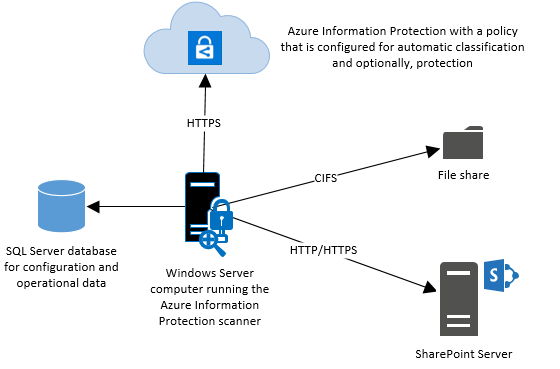
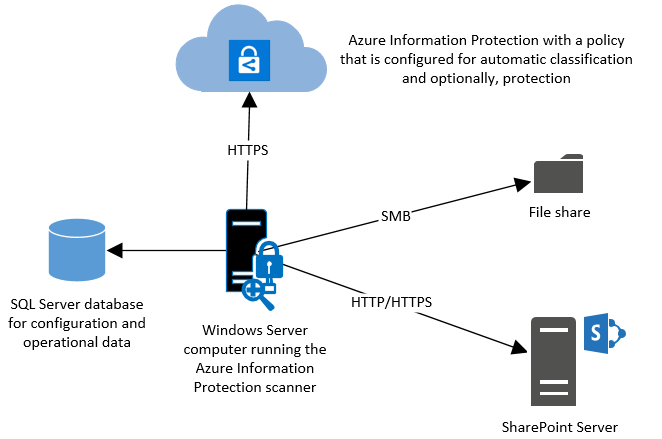
replace CIFS reference in text and art to SMB

Changed region(s): [[0.0, 0.0, 0.9714, 0.8943], [0.6982, 0.6856, 0.9714, 0.9837]]

diff --git a/Azure-RMSDocs/deploy-use/deploy-aip-scanner.md b/Azure-RMSDocs/deploy-use/deploy-aip-scanner.md
@@ -6,7 +6,7 @@ description: Instructions to install, configure, and run the Azure Information P
 author: cabailey
 ms.author: cabailey
 manager: mbaldwin
-ms.date: 03/09/2018
+ms.date: 04/09/2018
 ms.topic: article
 ms.prod:
 ms.service: information-protection
@@ -35,7 +35,7 @@ This scanner runs as a service on Windows Server and lets you discover, classify
 
 - Local folders on the Windows Server computer that runs the scanner.
 
-- UNC paths for network shares that use the Common Internet File System (CIFS) protocol.
+- UNC paths for network shares that use the Server Message Block (SMB) protocol.
 
 - Sites and libraries for SharePoint Server 2016 and SharePoint Server 2013.
 
@@ -43,7 +43,7 @@ This scanner runs as a service on Windows Server and lets you discover, classify
 
 When you have configured your [Azure Information Protection policy](configure-policy.md) for labels that apply automatic classification, files that this scanner discovers can then be labeled. Labels apply classification, and optionally, apply protection or remove protection:
 
-![Azure Information Protection scanner overview](../media/infoprotect-scanner.png)
+![Azure Information Protection scanner architecture overview](../media/infoprotect-scanner.png)
 
 The scanner can inspect any files that Windows can index, by using iFilters that are installed on the computer. Then, to determine if the files need labeling, the scanner uses the Office 365 built-in data loss prevention (DLP) sensitivity information types and pattern detection, or Office 365 regex patterns. Because the scanner uses the Azure Information Protection client, it can classify and protect the same [file types](../rms-client/client-admin-guide-file-types.md).
 
